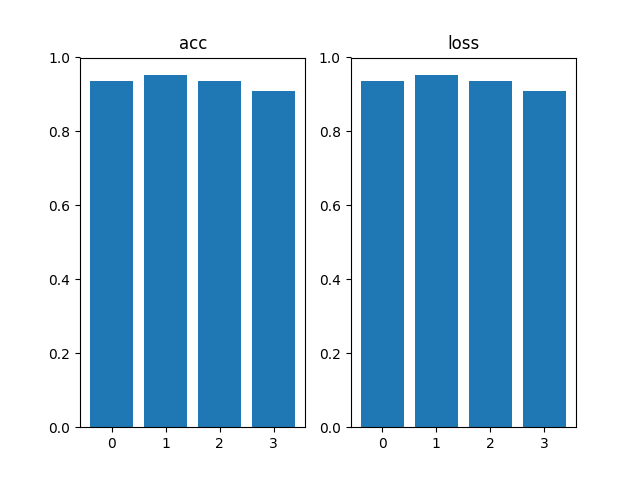
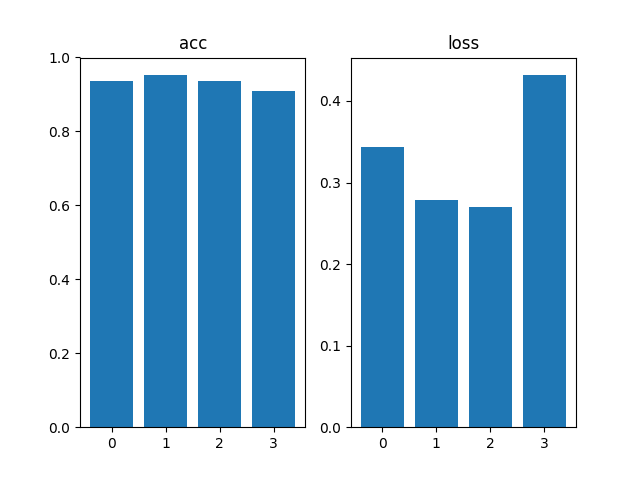
Time: 2019-08-14 20:47:23

diff --git a/louishsu/recognize_stage_2/main_update_config.py b/louishsu/recognize_stage_2/main_update_config.py
@@ -4,7 +4,7 @@
 @Auther: louishsu
 @E-mail: is.louishsu@foxmail.com
 @Date: 2019-08-10 10:30:40
-@LastEditTime: 2019-08-13 21:32:38
+@LastEditTime: 2019-08-14 20:42:56
 @Update: 
 '''
 import os
@@ -552,7 +552,7 @@ def main_3_5(make_table_figure=False):
             cols_name = illum_types
             # -----------------------------------------------------------------------------------------------------
             data_acc_illum_types  = np.r_[data_acc_illum_types,  np.mean(data_acc_illum_types, axis=0).reshape(1, -1)]
-            data_loss_illum_types = np.r_[data_loss_illum_types, np.mean(data_acc_illum_types, axis=0).reshape(1, -1)]
+            data_loss_illum_types = np.r_[data_loss_illum_types, np.mean(data_loss_illum_types, axis=0).reshape(1, -1)]
             # -----------------------------------------------------------------------------------------------------
             table_acc_illum_types  = gen_markdown_table_2d(head_name, rows_name, cols_name, data_acc_illum_types )
             table_loss_illum_types = gen_markdown_table_2d(head_name, rows_name, cols_name, data_loss_illum_types)
@@ -576,7 +576,7 @@ def main_3_5(make_table_figure=False):
             cols_name = list(map(str, positions))
             # -----------------------------------------------------------------------------------------------------
             data_acc_positions  = np.r_[data_acc_positions,  np.mean(data_acc_positions, axis=0).reshape(1, -1)]
-            data_loss_positions = np.r_[data_loss_positions, np.mean(data_acc_positions, axis=0).reshape(1, -1)]
+            data_loss_positions = np.r_[data_loss_positions, np.mean(data_loss_positions, axis=0).reshape(1, -1)]
             # -----------------------------------------------------------------------------------------------------
             table_acc_positions  = gen_markdown_table_2d(head_name, rows_name, cols_name, data_acc_positions )
             table_loss_positions = gen_markdown_table_2d(head_name, rows_name, cols_name, data_loss_positions)
@@ -600,7 +600,7 @@ def main_3_5(make_table_figure=False):
             cols_name = list(map(str, glass_types))
             # -----------------------------------------------------------------------------------------------------
             data_acc_glass_types  = np.r_[data_acc_glass_types,  np.mean(data_acc_glass_types, axis=0).reshape(1, -1)]
-            data_loss_glass_types = np.r_[data_loss_glass_types, np.mean(data_acc_glass_types, axis=0).reshape(1, -1)]
+            data_loss_glass_types = np.r_[data_loss_glass_types, np.mean(data_loss_glass_types, axis=0).reshape(1, -1)]
             # -----------------------------------------------------------------------------------------------------
             table_acc_glass_types  = gen_markdown_table_2d(head_name, rows_name, cols_name, data_acc_glass_types )
             table_loss_glass_types = gen_markdown_table_2d(head_name, rows_name, cols_name, data_loss_glass_types)

diff --git a/louishsu/recognize_stage_2/EXP.md b/louishsu/recognize_stage_2/EXP.md
@@ -360,7 +360,7 @@ python
 | 3 | 0.22924265265464783 | 0.3756282329559326 | 0.34654149413108826 | 0.27989837527275085 |
 | 4 | 0.44631752371788025 | 0.35346367955207825 | 0.25616833567619324 | 0.609917163848877 |
 | 5 | 0.2411019206047058 | 0.26365926861763 | 0.17424382269382477 | 0.4398614168167114 |
-| average | 0.9366371035575867 | 0.9514255166053772 | 0.937005615234375 | 0.9089224815368652 |
+| average | 0.3438558042049408 | 0.2789714515209198 | 0.27019810676574707 | 0.431610631942749 |
 
 
 作图如下
@@ -385,7 +385,7 @@ python
 | 3 | 1.2859147787094116 | 1.4190694093704224 | 1.3152297735214233 | 1.7251135110855103 |
 | 4 | 0.8544989228248596 | 1.0853160619735718 | 1.1699944734573364 | 1.5005419254302979 |
 | 5 | 1.032544732093811 | 1.0119115114212036 | 0.9546257853507996 | 1.4654229879379272 |
-| average | 0.7461874485015869 | 0.7600135803222656 | 0.7511709451675416 | 0.6882622241973877 |
+| average | 1.0181649565696715 | 1.249177384376526 | 1.1953755259513854 | 1.635240650177002 |
 
 作图如下
 ![图3.5.1.2](images/3_5_<figure>_[RGB]_[illum_types].png)
@@ -413,7 +413,7 @@ python
 | 3 | 0.901444673538208 | 0.09998495876789093 | 0.0629013180732727 | 0.15705424547195435 | 0.20752596855163574 | 0.18322187662124634 | 0.6927688717842102 |
 | 4 | 0.7416712045669556 | 0.23027673363685608 | 0.21197019517421722 | 0.2374773621559143 | 0.18385827541351318 | 0.21589897572994232 | 1.1650221347808838 |
 | 5 | 1.0006636381149292 | 0.04727545753121376 | 0.08522555232048035 | 0.1996830552816391 | 0.04238962382078171 | 0.042731598019599915 | 0.47946643829345703 |
-| average | 0.84842369556427 | 0.9721652746200561 | 0.9825355768203735 | 0.955759572982788 | 0.9762850642204285 | 0.9540239810943604 | 0.8387184977531433 |
+| average | 0.782865297794342 | 0.11644764803349972 | 0.1094810999929905 | 0.23387497365474702 | 0.1475653499364853 | 0.16868188977241516 | 0.7848324418067932 |
 
 作图如下
 ![图3.5.2.1](images/3_5_<figure>_[Multi]_[positions].png)
@@ -437,7 +437,7 @@ python
 | 3 | 2.5576670169830322 | 1.5919281244277954 | 0.675086259841919 | 1.001042366027832 | 0.584235668182373 | 0.9687958359718323 | 2.8804523944854736 |
 | 4 | 2.532008171081543 | 1.1013211011886597 | 0.5062957406044006 | 0.7470343708992004 | 0.5797130465507507 | 0.8773159384727478 | 1.9024628400802612 |
 | 5 | 2.1972715854644775 | 1.7188125848770142 | 0.38396337628364563 | 0.7599490880966187 | 0.6170359253883362 | 0.854550302028656 | 1.4463833570480347 |
-| average | 0.5205212712287902 | 0.7400894284248353 | 0.8367260813713074 | 0.8249667048454284 | 0.8804241061210633 | 0.735330319404602 | 0.5674833834171294 |
+| average | 2.568576622009277 | 1.5079662084579468 | 0.6735933363437653 | 0.8175220370292664 | 0.553608238697052 | 1.0695720791816712 | 1.9605740308761597 |
 
 作图如下
 ![图3.5.2.2](images/3_5_<figure>_[RGB]_[positions].png)
@@ -465,7 +465,7 @@ python
 | 3 | 0.29311615228652954 | 0.4096846282482147 | 0.13867482542991638 |
 | 4 | 0.47649845480918884 | 0.31510424613952637 | 0.28687840700149536 |
 | 5 | 0.36150237917900085 | 0.11045077443122864 | 0.1248135194182396 |
-| average | 0.9249390244483947 | 0.9561822295188903 | 0.9341908097267151 |
+| average | 0.3816352725028992 | 0.23102138936519623 | 0.24004832059144973 |
 
 作图如下
 ![图3.5.3.1](images/3_5_<figure>_[Multi]_[glass_types].png)
@@ -489,7 +489,7 @@ python
 | 3 | 1.3472990989685059 | 1.778964877128601 | 1.0416909456253052 |
 | 4 | 1.139885425567627 | 1.3269877433776855 | 0.7363423109054565 |
 | 5 | 1.2593384981155396 | 0.9146506190299988 | 0.5721426010131836 |
-| average | 0.7287617444992066 | 0.7395311951637268 | 0.7832123160362244 |
+| average | 1.2912932872772216 | 1.3827011942863465 | 0.8403602480888367 |
 
 作图如下
 ![图3.5.3.2](images/3_5_<figure>_[RGB]_[glass_types].png)
